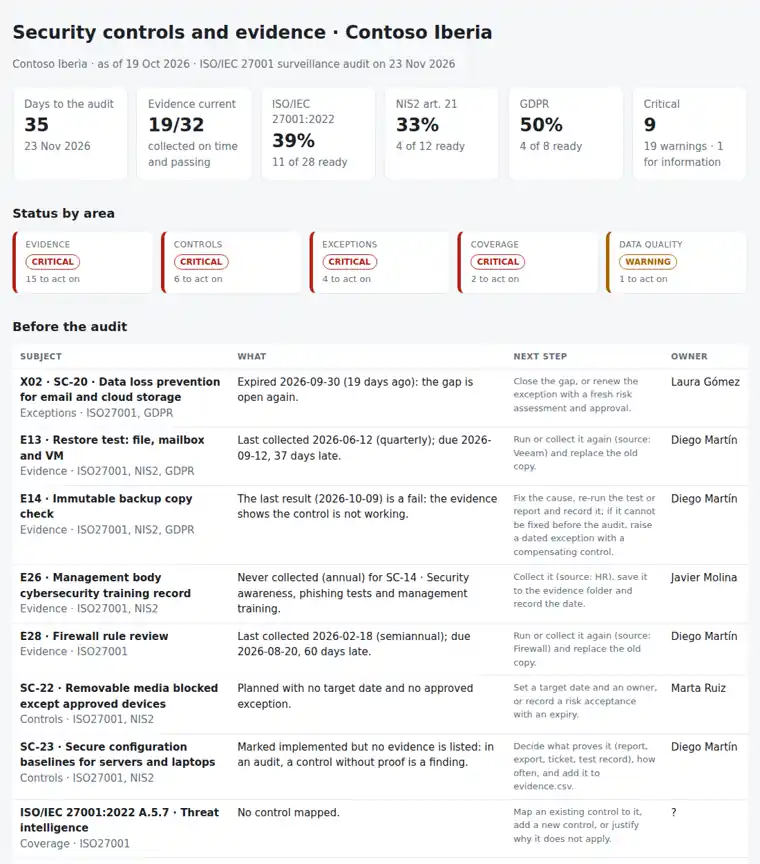
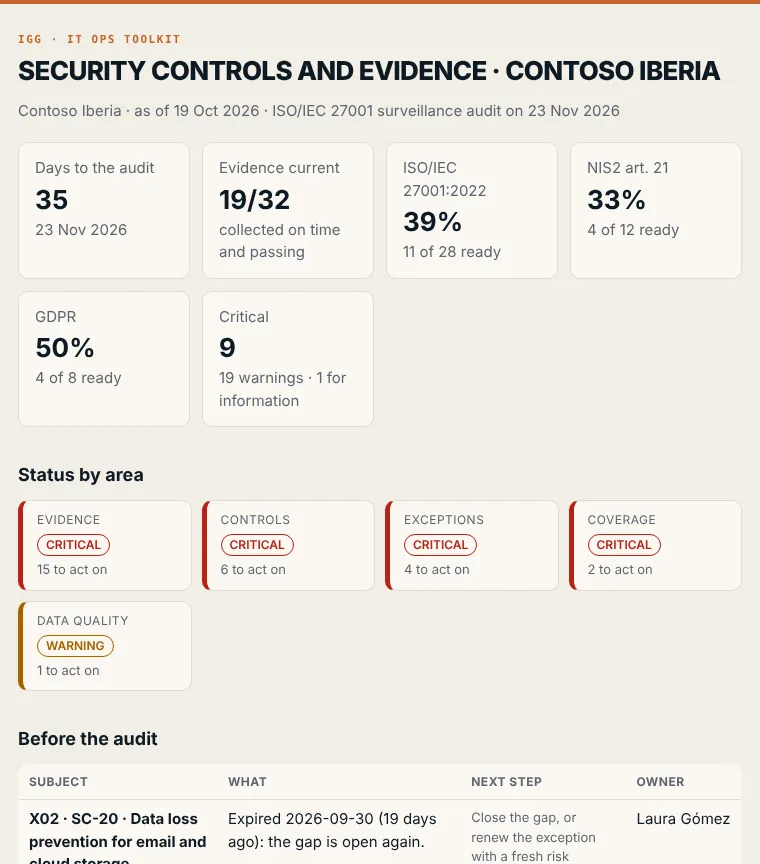
Report: IGG colours (paper, ink and the orange accent) and a new screenshot

diff --git a/evidencepack/report.py b/evidencepack/report.py
@@ -181,9 +181,9 @@ def review_md(reg: Register, findings: list[Finding]) -> str:
 
 
 CSS = """
-:root{--bg:#f6f7f8;--card:#fff;--ink:#1b2128;--muted:#66717c;--line:#e2e5e9;--ok:#1e7a4c;--warn:#a46200;--bad:#b42318;--info:#0b6bcb;--na:#8a94a0}
-@media (prefers-color-scheme:dark){:root{--bg:#13171b;--card:#1b2127;--ink:#e7eaee;--muted:#9aa5b0;--line:#2b333b;--ok:#4cc38a;--warn:#f0a83a;--bad:#f2685c;--info:#5aa9f0;--na:#6d7782}}
-*{box-sizing:border-box}body{margin:0;background:var(--bg);color:var(--ink);font:15px/1.5 system-ui,-apple-system,Segoe UI,sans-serif}
+:root{--bg:#f2eee6;--card:#fbf8f3;--ink:#0e1a24;--muted:#5d6670;--line:#e2dccf;--ok:#1e7a4c;--warn:#a46200;--bad:#b42318;--info:#1f5f8b;--na:#8a94a0}
+@media (prefers-color-scheme:dark){:root{--bg:#0e1a24;--card:#142331;--ink:#f2eee6;--muted:#a9b3bb;--line:#24364a;--ok:#4cc38a;--warn:#f0a83a;--bad:#f2685c;--info:#5aa9f0;--na:#6d7782}}
+*{box-sizing:border-box}body{border-top:4px solid #c4672b}h1{font-weight:800;letter-spacing:-.025em;text-transform:uppercase;line-height:1.05}h1::before{content:"IGG · IT Ops toolkit";display:block;font:600 11px/1.4 ui-monospace,SFMono-Regular,Menlo,monospace;letter-spacing:.14em;text-transform:uppercase;color:#c4672b;margin-bottom:10px}body{margin:0;background:var(--bg);color:var(--ink);font:15px/1.5 system-ui,-apple-system,Segoe UI,sans-serif}
 main{max-width:1100px;margin:0 auto;padding:28px 18px 60px}h1{font-size:26px;margin:0 0 4px}h2{font-size:18px;margin:34px 0 12px}h3{font-size:15px;margin:22px 0 8px}
 .muted{color:var(--muted)}.tiles{display:grid;grid-template-columns:repeat(auto-fit,minmax(160px,1fr));gap:12px;margin-top:20px}
 .tile{background:var(--card);border:1px solid var(--line);border-radius:10px;padding:14px 16px}.tile b{display:block;font-size:26px}
